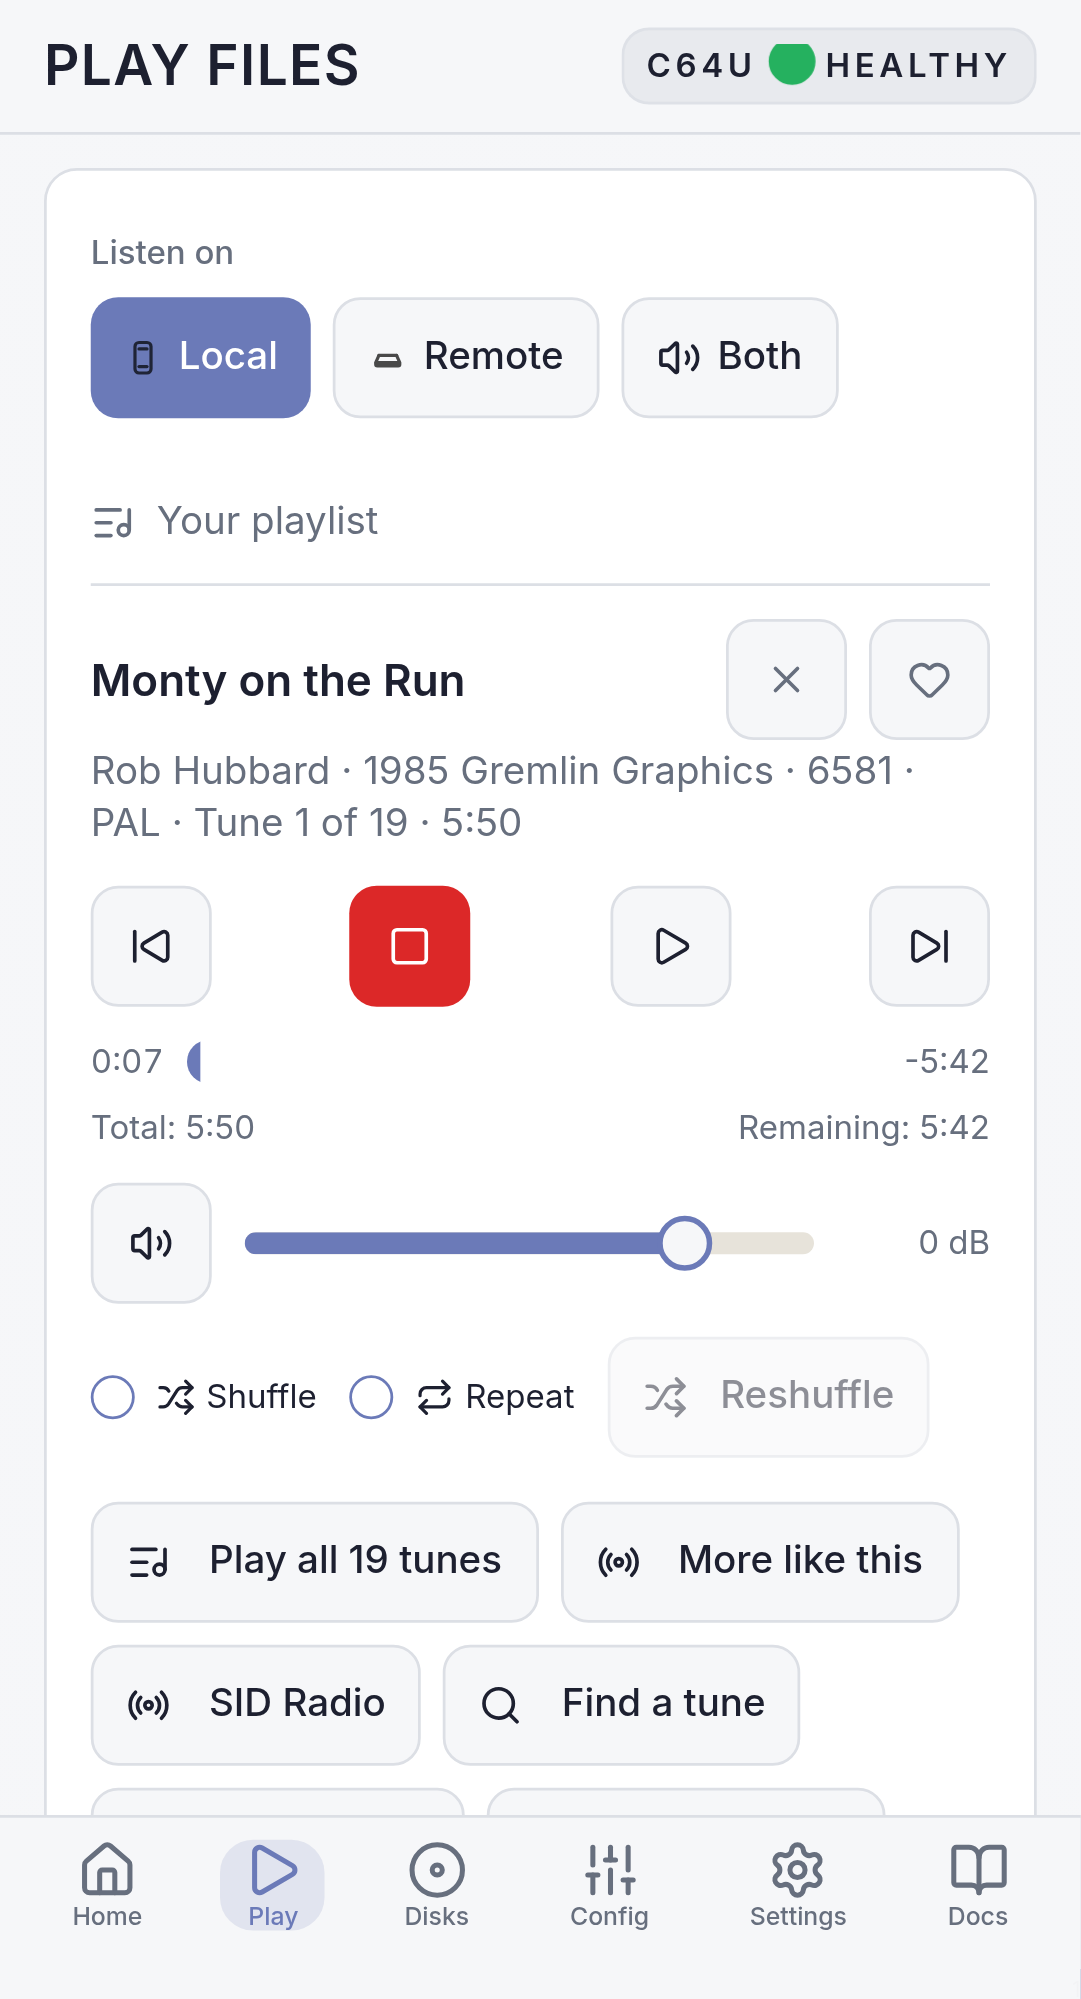
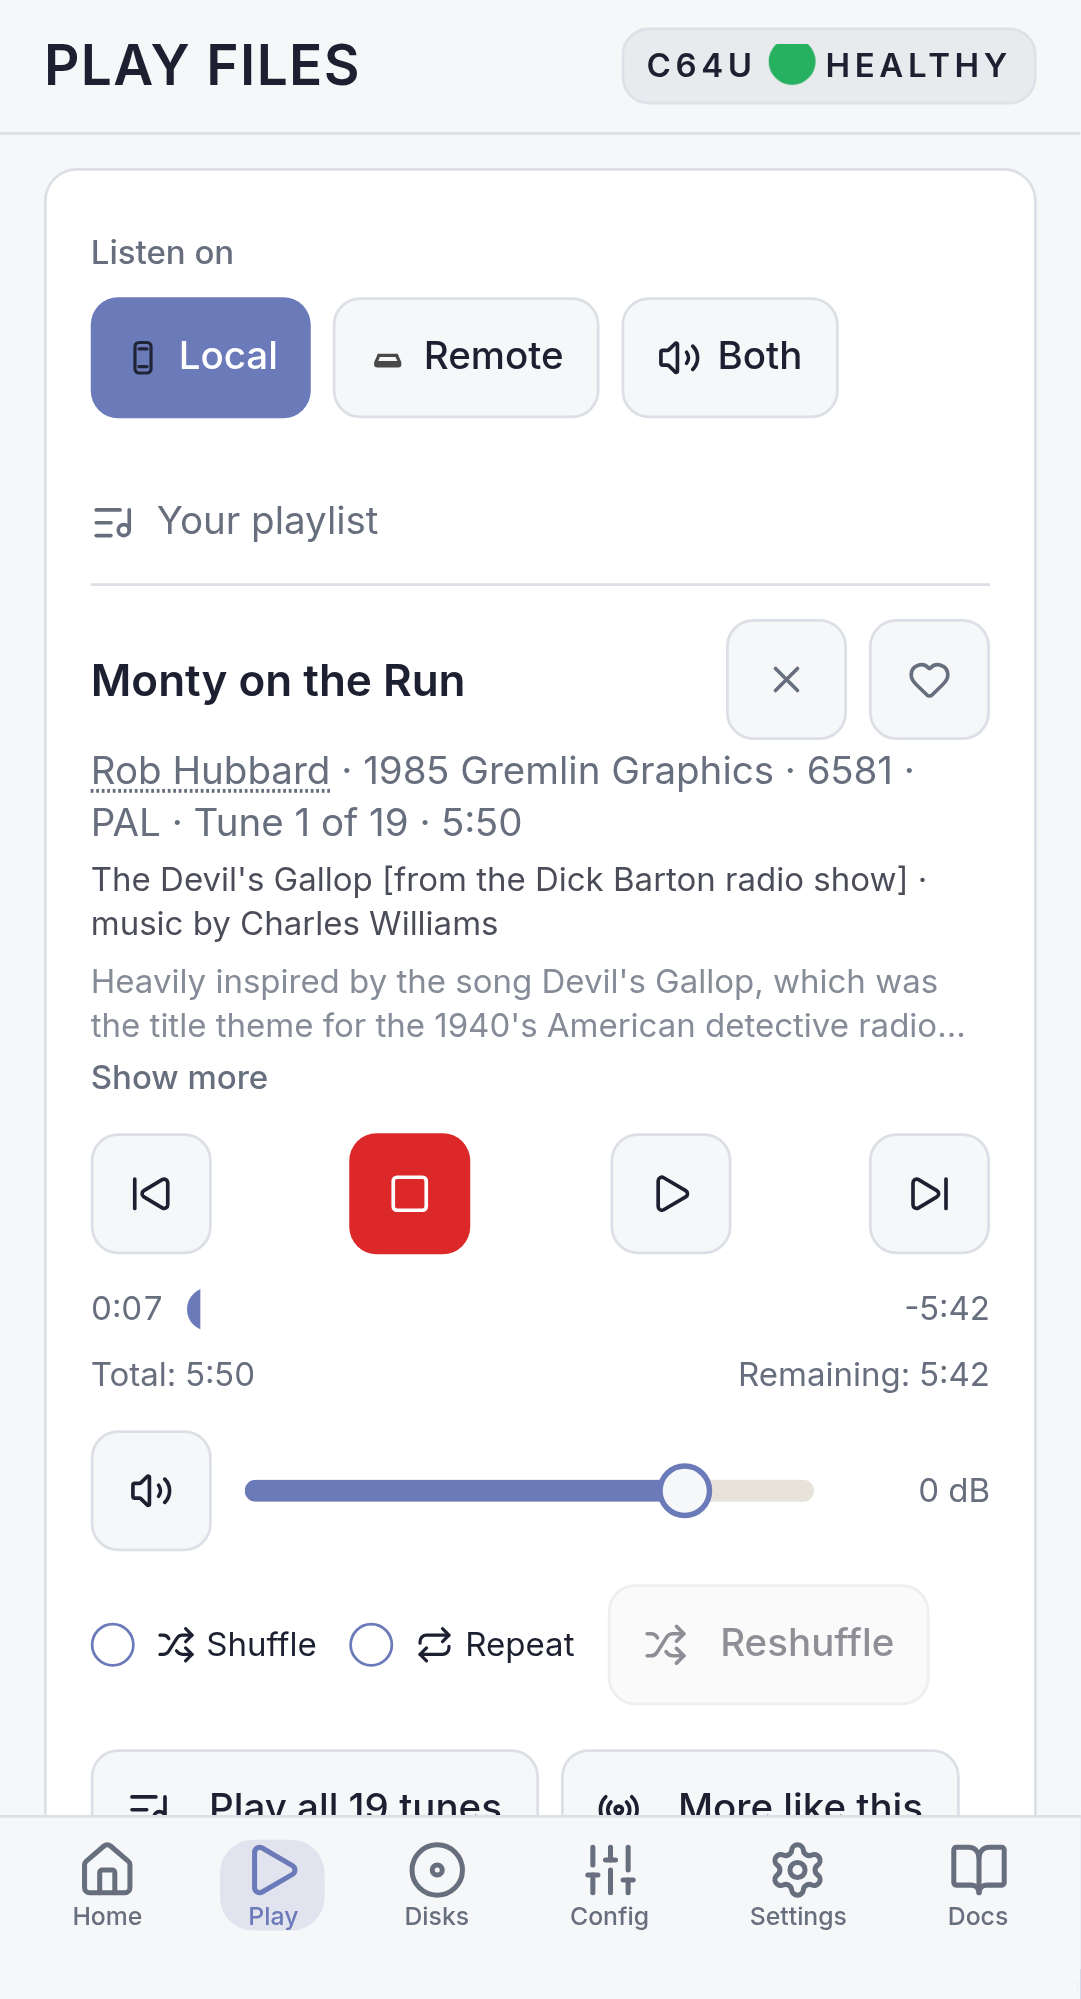
docs: capture the STIL card, the sleep timer and the explained import steps
Screenshots were regenerated for the two tests whose UI actually changed
rather than for the whole corpus. A full run reports about 199 files as
changed, almost all of it machine render drift of 1-11% on pages this
branch never touched -- config sections, settings badges, diagnostics --
and the identical-PNG prune reverts only five of them. Regenerating the
two affected tests produces exactly three files.

The now-playing capture needed STIL to be present, which the real store
only gets by downloading and parsing 3.7 MB of the archive. It is seeded
instead, with the genuine v85 entry for the tune these captures already
used: Monty on the Run, whose header credits Rob Hubbard and whose STIL
entry credits Charles Williams for the music. That is the feature in one
image.

The seam is its own global rather than a field on __hvscMock__, because
the presence of that object is what isHvscBridgeAvailable reads to decide
the whole HVSC subsystem is mocked, which would have changed unrelated
captures.

Collapsed notes are two lines rather than three: three took a visible bite
out of a card that already carries a title, a credits line, a STIL line
and the transport.

Manuals and PDFs rebuilt.

diff --git a/playwright/screenshots.spec.ts b/playwright/screenshots.spec.ts
@@ -957,6 +957,31 @@ const seedHvscBrowseIndex = async (page: Page) => {
   }, tunes);
 };
 
+/**
+ * The real STIL entry for the tune the SID Radio captures are taken with, verbatim from
+ * `DOCUMENTS/STIL.txt` v85.
+ *
+ * Supplied rather than downloaded: the store is filled by parsing 3.7 MB of the archive, which a
+ * screenshot run cannot do offline and has no reason to do at all. Monty on the Run illustrates
+ * what STIL is for — its SID header credits Rob Hubbard, who wrote the C64 version, and STIL
+ * records that the music is Charles Williams's, from a 1940s radio serial.
+ */
+const seedStil = async (page: Page) => {
+  await page.addInitScript(() => {
+    (window as unknown as { __stilMock__: unknown }).__stilMock__ = {
+      "/MUSICIANS/H/Hubbard_Rob/Monty_on_the_Run.sid": {
+        subsongs: {
+          1: {
+            credits: [{ title: "The Devil's Gallop [from the Dick Barton radio show]", artist: "Charles Williams" }],
+            comment:
+              'Heavily inspired by the song Devil\'s Gallop, which was the title theme for the 1940\'s American detective radio show "Dick Barton". "Monty [...] started out as the theme from the old radio detective show, Dick Barton" (RH, in the UK magazine "Popular Computing") "MOTR was supposed to be this run around like a madman type music and has lots of energy. The middle section was an excuse to use the new pitch bend code that I wrote for this project." (RH)',
+          },
+        },
+      },
+    };
+  });
+};
+
 const waitForOverlaysToClear = async (page: Page) => {
   const notificationRegion = page.locator('[aria-label="Notifications (F8)"]');
   const openToasts = notificationRegion.locator('[data-state="open"], [role="status"]');
@@ -2498,6 +2523,7 @@ test.describe("App screenshots", () => {
     async ({ page }: { page: Page }, testInfo: TestInfo) => {
       test.slow();
       await seedHvscBrowseIndex(page);
+      await seedStil(page);
       await page.addInitScript(() => {
         localStorage.setItem(
           "c64u_recently_played:v1",
@@ -2665,12 +2691,24 @@ test.describe("App screenshots", () => {
       // than photographing a card that is still only showing a length.
       await expect(getActiveMain(page).getByTestId("playback-current-credits")).toContainText("Rob Hubbard");
 
+      // And wait for STIL, which arrives separately: the header line above is parsed from the file,
+      // this one is looked up. Photographing between the two would show a card mid-assembly.
+      await expect(getActiveMain(page).getByTestId("playback-current-stil")).toContainText("Charles Williams");
+
       // Stop the clock now that the tune is up, so the elapsed time, the remaining
       // time and the progress bar cannot move between here and the shutter. See
       // FEATURED_SID for why this happens after connecting rather than before.
       await page.clock.setFixedTime(Date.now());
       await page.evaluate(() => window.scrollTo(0, 0));
       await captureScreenshot(page, testInfo, "play/sid-radio/01-controls.png");
+
+      // The sleep timer, which lives with the playback settings rather than on the transport: it is
+      // a decision about the listening session, not about how a file is played. Captured as its own
+      // locator shot because the settings section is taller than the viewport.
+      const sleepTimer = getActiveMain(page).getByTestId("sleep-timer");
+      await sleepTimer.scrollIntoViewIfNeeded();
+      await expect(sleepTimer).toBeVisible();
+      await captureScreenshot(page, testInfo, "play/sid-radio/06-sleep-timer.png", { locator: sleepTimer });
     },
   );
 

diff --git a/src/lib/hvsc/stilStore.ts b/src/lib/hvsc/stilStore.ts
@@ -55,6 +55,22 @@ export type StilManifest = {
 const shardName = (shard: number) => `shard-${shard}.json`;
 
 /**
+ * STIL supplied by a test.
+ *
+ * The real store is a set of files, and the only way to fill it is to download and parse 3.7 MB of
+ * the archive — which a screenshot run has no business doing, and could not do offline anyway. A
+ * test that wants a tune to have notes says so directly.
+ *
+ * Deliberately its own global rather than a field on `__hvscMock__`: the presence of that object is
+ * what `isHvscBridgeAvailable` reads to decide the whole HVSC subsystem is mocked, so hanging STIL
+ * off it would change which sources the app offers in captures that are about something else.
+ */
+const mockedStil = (): Record<string, StilEntry> | null => {
+  if (typeof window === "undefined") return null;
+  return (window as Window & { __stilMock__?: Record<string, StilEntry> }).__stilMock__ ?? null;
+};
+
+/**
  * FNV-1a over the lowercased path, finished with an avalanche step.
  *
  * Lowercased so that a lookup cannot miss on a case difference between the archive listing and
@@ -149,7 +165,8 @@ export const readStilManifest = async (): Promise<StilManifest | null> => {
 };
 
 /** Whether there is anything to look up, so callers can skip the work rather than miss repeatedly. */
-export const isStilInstalled = async (): Promise<boolean> => (await readStilManifest()) !== null;
+export const isStilInstalled = async (): Promise<boolean> =>
+  mockedStil() !== null || (await readStilManifest()) !== null;
 
 /**
  * Write the parsed document out as shards.
@@ -193,6 +210,8 @@ export const ingestStilText = async (text: string, release: number): Promise<num
 /** Everything STIL says about one file, including its per-tune blocks. */
 export const getStilEntry = async (virtualPath: string): Promise<StilEntry | null> => {
   if (!virtualPath) return null;
+  const mock = mockedStil();
+  if (mock) return mock[virtualPath] ?? null;
   if (!(await isStilInstalled())) return null;
   const shard = await readShard(shardForPath(virtualPath));
   return shard?.[virtualPath] ?? null;

diff --git a/src/pages/playFiles/components/TuneNotes.tsx b/src/pages/playFiles/components/TuneNotes.tsx
@@ -10,8 +10,14 @@ import { useCallback, useEffect, useRef, useState } from "react";
 
 import { cn } from "@/lib/utils";
 
-/** How much is shown before the note is cut off. Three lines is roughly the median note in full. */
-const COLLAPSED_LINES = 3;
+/**
+ * How much is shown before the note is cut off.
+ *
+ * Two lines. Three took a visible bite out of the card next to everything else the now-playing
+ * panel has to carry, and two is still enough to see that there is a note and what it is about,
+ * which is what the collapsed state is for.
+ */
+const COLLAPSED_LINES = 2;
 
 export type TuneNotesProps = {
   /** The note itself. Nothing renders when this is absent, which is the case for most tunes. */
@@ -72,7 +78,7 @@ export const TuneNotes = ({ note, className }: TuneNotesProps) => {
       // only let them back in.
       className={cn(
         "text-xs leading-snug text-muted-foreground/80",
-        !expanded && "line-clamp-3",
+        !expanded && "line-clamp-2",
         // Expanded, the note gets its own scroll rather than the card's. The longest note in the
         // collection is 2,390 characters, which unbounded pushes the transport and the progress bar
         // off the screen entirely — measured on the device, where even "Show less" ended up below

diff --git a/tests/unit/components/TuneNotes.test.tsx b/tests/unit/components/TuneNotes.test.tsx
@@ -49,7 +49,7 @@ describe("TuneNotes", () => {
     render(<TuneNotes note={"There is an interesting story behind Commando. ".repeat(12)} />);
     // Clamped, not hidden: the first lines are readable without any interaction.
     expect(screen.getByTestId("tune-notes-text")).toHaveAttribute("data-expanded", "false");
-    expect(screen.getByTestId("tune-notes-text").className).toContain("line-clamp-3");
+    expect(screen.getByTestId("tune-notes-text").className).toContain("line-clamp-2");
     expect(screen.getByTestId("tune-notes-toggle")).toHaveTextContent("Show more");
     restore();
   });
@@ -61,7 +61,7 @@ describe("TuneNotes", () => {
 
     fireEvent.click(region);
     expect(screen.getByTestId("tune-notes-text")).toHaveAttribute("data-expanded", "true");
-    expect(screen.getByTestId("tune-notes-text").className).not.toContain("line-clamp-3");
+    expect(screen.getByTestId("tune-notes-text").className).not.toContain("line-clamp-2");
     expect(screen.getByTestId("tune-notes-toggle")).toHaveTextContent("Show less");
     expect(region).toHaveAttribute("aria-expanded", "true");
 

diff --git a/src/lib/hvsc/stilService.ts b/src/lib/hvsc/stilService.ts
@@ -76,6 +76,9 @@ let ensureInFlight: Promise<boolean> | null = null;
  * look up afterwards.
  */
 export const ensureStilReady = async (options?: { signal?: AbortSignal }): Promise<boolean> => {
+  // A test supplying STIL through the mock bridge has already answered this; downloading over the
+  // top of it would be both wrong and impossible offline.
+  if (await isStilInstalled()) return true;
   const state = loadHvscState();
   if (state.installedVersion <= 0) return false;
 

diff --git a/docs/manual/c64commander/c64commander-manual.md b/docs/manual/c64commander/c64commander-manual.md
@@ -462,13 +462,15 @@ The first is that a tune is an arrangement, and of whose music. A great deal of 
 
 The second is what the individual tunes inside a file are called, which is what turns a list of nineteen identical rows into a title screen, a high-score jingle and a game-over sting.
 
-Underneath, where the editors left a note about the tune, you get it. Most are a line or two and are shown in full. Longer ones are trimmed to three lines with a **Show more** underneath.
+Underneath, where the editors left a note about the tune, you get it. Most are a line or two and are shown in full. Longer ones are trimmed to three lines and marked **Show more**; tap anywhere on the note to read the rest, and again to fold it away.
 
 The composer's name is also a way to hear more of their work: tap it, and the search opens with their name already filled in.
 
 #### Stopping later
 
 A station never ends on its own, which is a problem if you are listening in bed. Under **Playback settings** is a **Sleep timer**. Choose **This tune** to stop when the current tune finishes, or 15, 30, 45 or 60 minutes to stop at that point. The setting always says what it is going to do and counts down while it waits, and **Off** cancels it.
+
+![The sleep timer, showing what it is going to do](../../img/app/play/sid-radio/06-sleep-timer.png)
 
 #### Where the music plays
 

diff --git a/docs/manual/c64u-remote/c64u-remote-manual.md b/docs/manual/c64u-remote/c64u-remote-manual.md
@@ -460,13 +460,15 @@ The first is that a tune is an arrangement, and of whose music. A great deal of 
 
 The second is what the individual tunes inside a file are called, which is what turns a list of nineteen identical rows into a title screen, a high-score jingle and a game-over sting.
 
-Underneath, where the editors left a note about the tune, you get it. Most are a line or two and are shown in full. Longer ones are trimmed to three lines with a **Show more** underneath.
+Underneath, where the editors left a note about the tune, you get it. Most are a line or two and are shown in full. Longer ones are trimmed to three lines and marked **Show more**; tap anywhere on the note to read the rest, and again to fold it away.
 
 The composer's name is also a way to hear more of their work: tap it, and the search opens with their name already filled in.
 
 #### Stopping later
 
 A station never ends on its own, which is a problem if you are listening in bed. Under **Playback settings** is a **Sleep timer**. Choose **This tune** to stop when the current tune finishes, or 15, 30, 45 or 60 minutes to stop at that point. The setting always says what it is going to do and counts down while it waits, and **Off** cancels it.
+
+![The sleep timer, showing what it is going to do](../../img/app/play/sid-radio/06-sleep-timer.png)
 
 #### Where the music plays
 
